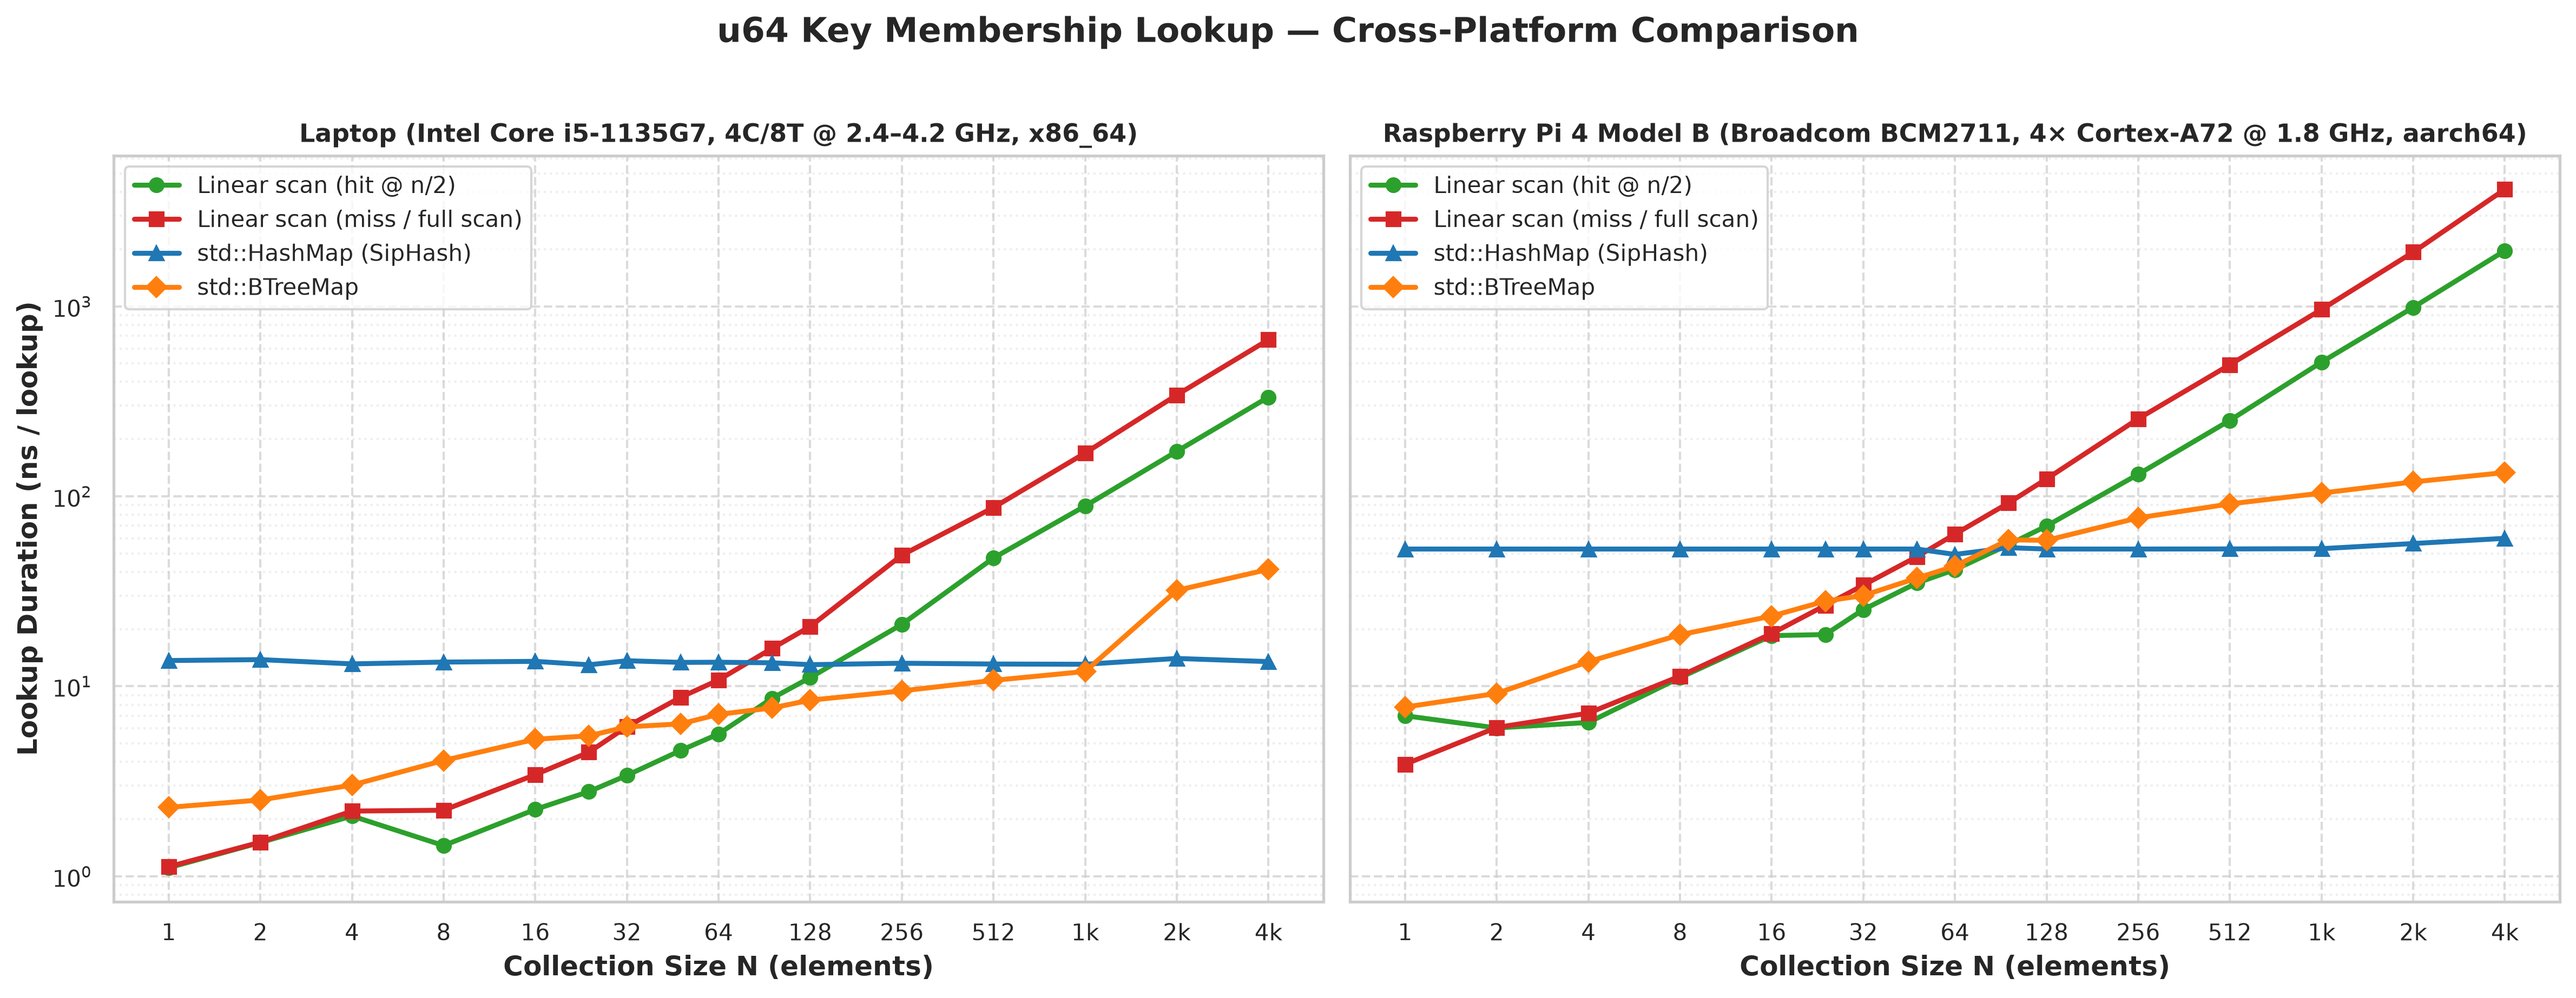
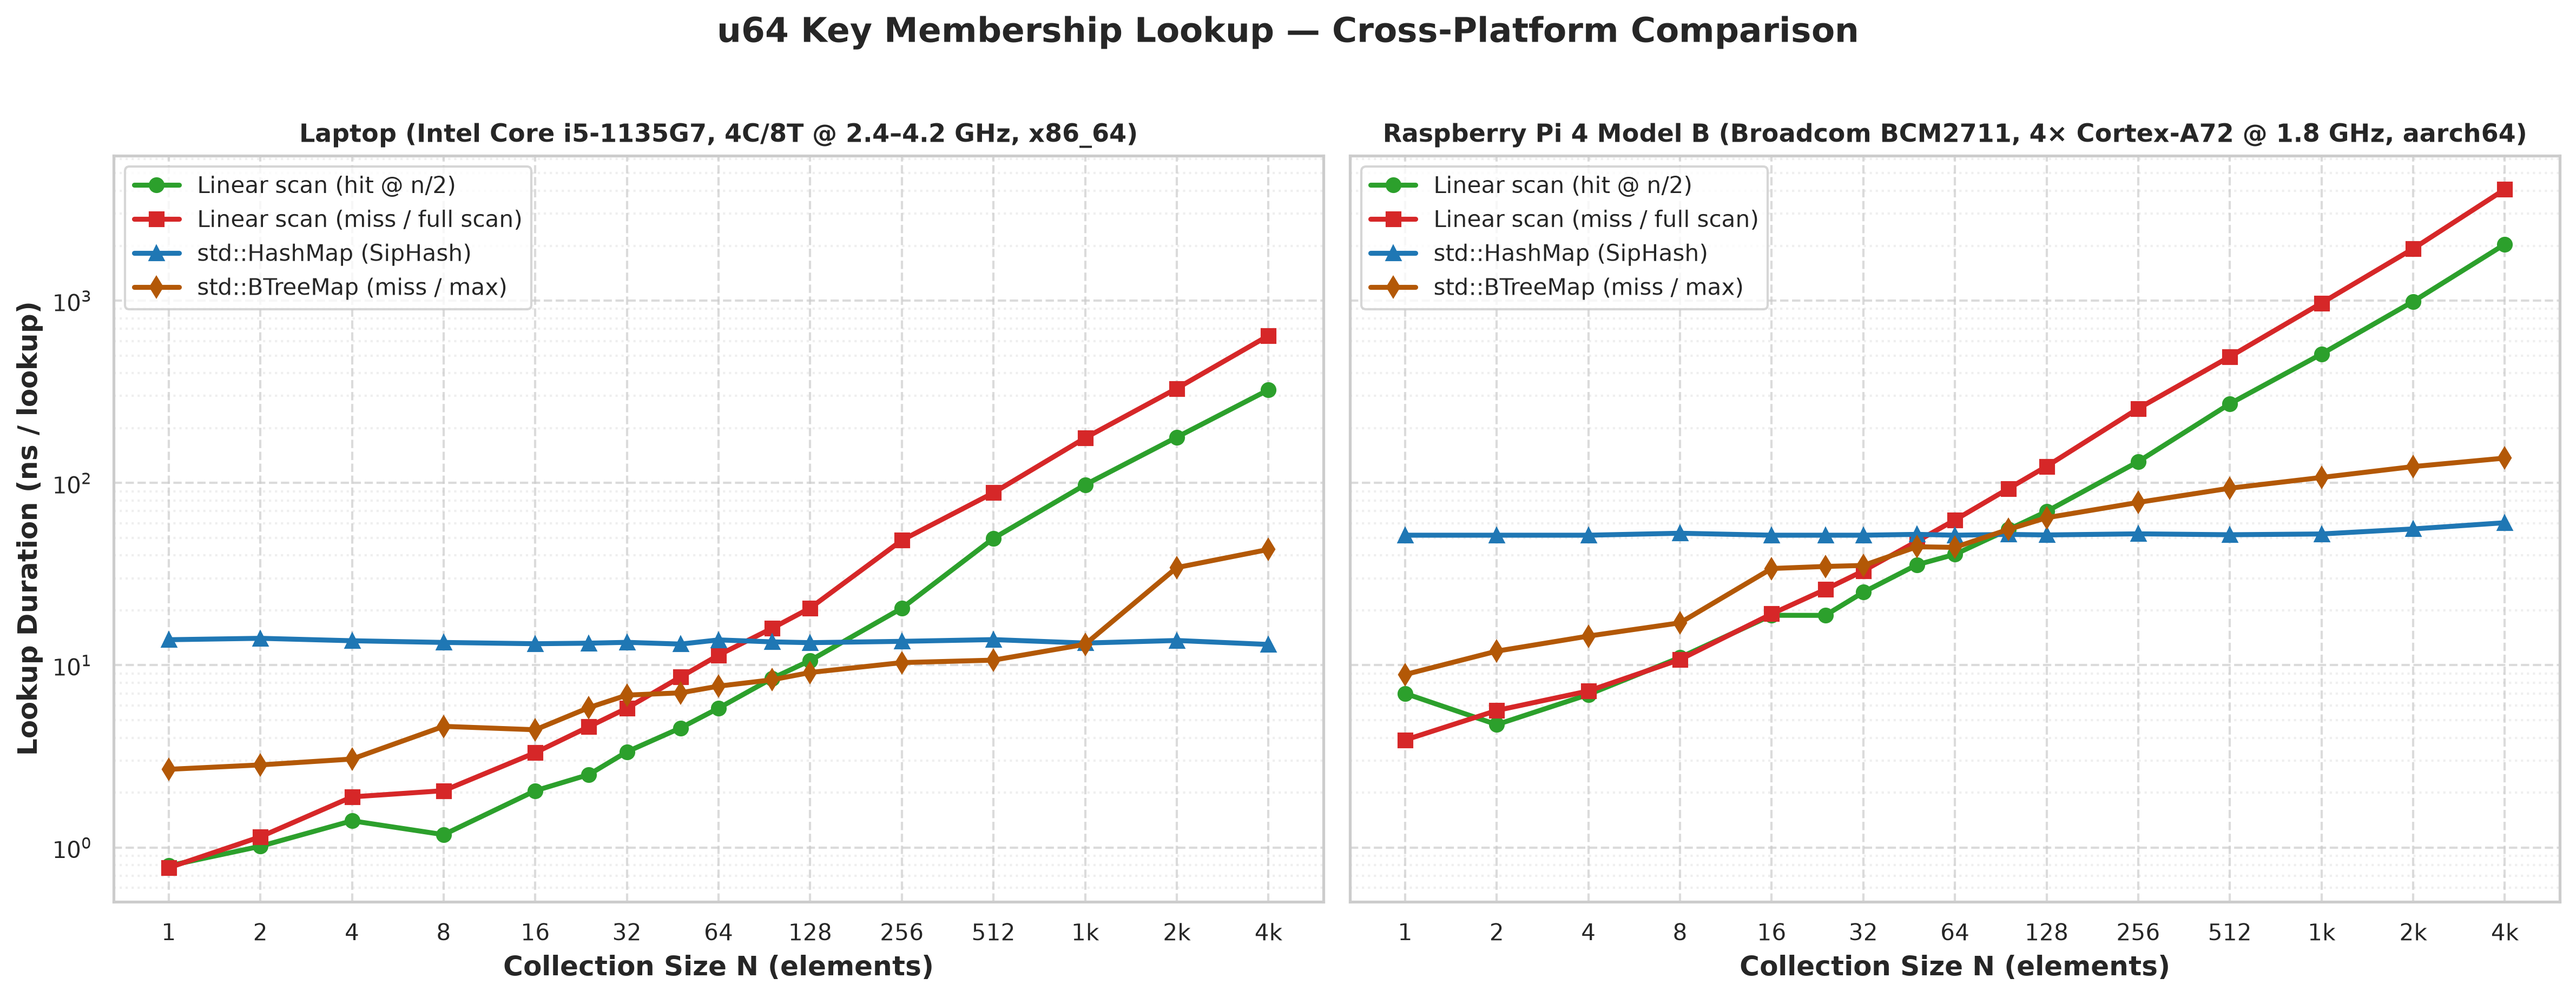
btree benchmark: measure max time for BTree

diff --git a/src/plot.rs b/src/plot.rs
@@ -26,7 +26,7 @@ Construction is not timed. HashMap uses std SipHash.
   linear_mid   Vec scan, hit at index n/2          (~n/2 compares)
   linear_max   Vec scan, key absent                (full scan)
   hashmap      HashMap, rotating present key       (~O(1))
-  btree        BTreeMap, rotating present key      (~O(log n))
+  btree_max    BTreeMap, rotating absent key       (~O(log n), miss)
 
 log–log: X = N, Y = ns/lookup. Linear climbs; HashMap is the flat line.",
         &series,
@@ -46,7 +46,7 @@ Construction is not timed. HashMap uses std SipHash. Trie is qp-trie.
   linear_mid   Vec scan, hit at index n/2
   linear_max   Vec scan, key absent
   hashmap      HashMap, rotating present key
-  btree        BTreeMap, rotating present key
+  btree_max    BTreeMap, rotating absent key       (miss)
   trie         qp-trie, rotating present key
 
 log–log: X = N, Y = ns/lookup.",
@@ -216,7 +216,7 @@ fn measure_int_series() -> Vec<Series> {
     let mut linear_mid = Vec::with_capacity(SIZES.len());
     let mut linear_max = Vec::with_capacity(SIZES.len());
     let mut hashmap = Vec::with_capacity(SIZES.len());
-    let mut btree = Vec::with_capacity(SIZES.len());
+    let mut btree_max = Vec::with_capacity(SIZES.len());
 
     for &n in SIZES {
         let data = IntData::generate(n);
@@ -225,6 +225,7 @@ fn measure_int_series() -> Vec<Series> {
         let mid = data.mid_key();
         let missing = data.missing;
         let keys = data.keys;
+        let missing_keys = data.missing_keys;
 
         linear_mid.push(measure_ns(|| {
             black_box_contains(linear_contains_u64(&keys, black_box(mid)));
@@ -240,9 +241,10 @@ fn measure_int_series() -> Vec<Series> {
             black_box_contains(map.contains_key(&black_box(k)));
         }));
 
+
         let mut i = 0usize;
-        btree.push(measure_ns(|| {
-            let k = keys[i % keys.len()];
+        btree_max.push(measure_ns(|| {
+            let k = missing_keys[i % missing_keys.len()];
             i = i.wrapping_add(1);
             black_box_contains(tree.contains_key(&black_box(k)));
         }));
@@ -253,7 +255,7 @@ fn measure_int_series() -> Vec<Series> {
         series("linear_mid", [44, 160, 44], linear_mid),
         series("linear_max", [214, 39, 40], linear_max),
         series("hashmap", [31, 119, 180], hashmap),
-        series("btree", [255, 127, 14], btree),
+        series("btree_max", [179, 88, 6], btree_max),
     ]
 }
 
@@ -261,7 +263,7 @@ fn measure_string_series() -> Vec<Series> {
     let mut linear_mid = Vec::with_capacity(SIZES.len());
     let mut linear_max = Vec::with_capacity(SIZES.len());
     let mut hashmap = Vec::with_capacity(SIZES.len());
-    let mut btree = Vec::with_capacity(SIZES.len());
+    let mut btree_max = Vec::with_capacity(SIZES.len());
     let mut trie = Vec::with_capacity(SIZES.len());
 
     for &n in SIZES {
@@ -272,6 +274,7 @@ fn measure_string_series() -> Vec<Series> {
         let mid = data.mid_key().to_owned();
         let missing = data.missing.clone();
         let keys = data.keys;
+        let missing_keys = data.missing_keys;
 
         linear_mid.push(measure_ns(|| {
             black_box_contains(linear_contains_str(&keys, black_box(mid.as_str())));
@@ -287,9 +290,10 @@ fn measure_string_series() -> Vec<Series> {
             black_box_contains(map.contains_key(black_box(k)));
         }));
 
+
         let mut i = 0usize;
-        btree.push(measure_ns(|| {
-            let k = keys[i % keys.len()].as_str();
+        btree_max.push(measure_ns(|| {
+            let k = missing_keys[i % missing_keys.len()].as_str();
             i = i.wrapping_add(1);
             black_box_contains(tree.contains_key(black_box(k)));
         }));
@@ -306,7 +310,7 @@ fn measure_string_series() -> Vec<Series> {
         series("linear_mid", [44, 160, 44], linear_mid),
         series("linear_max", [214, 39, 40], linear_max),
         series("hashmap", [31, 119, 180], hashmap),
-        series("btree", [255, 127, 14], btree),
+        series("btree_max", [179, 88, 6], btree_max),
         series("trie", [148, 103, 189], trie),
     ]
 }

diff --git a/src/data.rs b/src/data.rs
@@ -19,24 +19,34 @@ pub const MISSING_STRING: &str = "________________";
 pub struct IntData {
     pub keys: Vec<u64>,
     pub missing: u64,
+    pub missing_keys: Vec<u64>,
 }
 
 pub struct StringData {
     pub keys: Vec<String>,
     pub missing: String,
+    pub missing_keys: Vec<String>,
 }
 
 impl IntData {
     pub fn generate(n: usize) -> Self {
         let mut rng = StdRng::seed_from_u64(SEED ^ n as u64);
-        let mut set = HashSet::with_capacity(n + 1);
-        while set.len() < n + 1 {
+        let count = (n * 2).max(2);
+        let mut set = HashSet::with_capacity(count);
+        while set.len() < count {
             set.insert(rng.random::<u64>());
         }
-        let mut keys: Vec<u64> = set.into_iter().collect();
-        let missing = keys.pop().expect("reserved one extra key as the miss");
+        let all: Vec<u64> = set.into_iter().collect();
+        let (keys_slice, missing_slice) = all.split_at(n);
+        let keys = keys_slice.to_vec();
+        let missing_keys = missing_slice.to_vec();
+        let missing = missing_keys[0];
         debug_assert_eq!(keys.len(), n);
-        Self { keys, missing }
+        Self {
+            keys,
+            missing,
+            missing_keys,
+        }
     }
 
     pub fn mid_key(&self) -> u64 {
@@ -51,9 +61,23 @@ impl StringData {
         while set.len() < n {
             set.insert(random_string(&mut rng, STRING_LEN));
         }
+        let keys: Vec<String> = set.into_iter().collect();
+
+        let count = n.max(1);
+        let mut missing_set = HashSet::with_capacity(count);
+        let keys_set: HashSet<&str> = keys.iter().map(|s| s.as_str()).collect();
+        while missing_set.len() < count {
+            let s = random_string(&mut rng, STRING_LEN);
+            if !keys_set.contains(s.as_str()) {
+                missing_set.insert(s);
+            }
+        }
+        let missing_keys: Vec<String> = missing_set.into_iter().collect();
+
         Self {
-            keys: set.into_iter().collect(),
+            keys,
             missing: MISSING_STRING.to_owned(),
+            missing_keys,
         }
     }
 
@@ -123,6 +147,12 @@ mod tests {
         assert!(!linear_contains_u64(&data.keys, data.missing));
         assert!(!map.contains_key(&data.missing));
         assert!(!tree.contains_key(&data.missing));
+        assert_eq!(data.missing_keys.len(), 128);
+        for k in &data.missing_keys {
+            assert!(!linear_contains_u64(&data.keys, *k));
+            assert!(!map.contains_key(k));
+            assert!(!tree.contains_key(k));
+        }
     }
 
     #[test]
@@ -143,6 +173,13 @@ mod tests {
         assert!(!tree.contains_key(&data.missing));
         assert!(!trie.contains_key_str(&data.missing));
         assert_eq!(data.missing.len(), STRING_LEN);
+        assert_eq!(data.missing_keys.len(), 64);
+        for k in &data.missing_keys {
+            assert!(!linear_contains_str(&data.keys, k));
+            assert!(!map.contains_key(k));
+            assert!(!tree.contains_key(k));
+            assert!(!trie.contains_key_str(k));
+        }
     }
 
     #[test]

diff --git a/scripts/plot_results.py b/scripts/plot_results.py
@@ -37,6 +37,7 @@ COLOR_MAP = {
     "linear_max": "#d62728",   # Red
     "hashmap": "#1f77b4",      # Blue
     "btree": "#ff7f0e",        # Orange
+    "btree_max": "#b35806",    # Dark Amber / Rust
     "trie": "#9467bd",         # Purple
 }
 
@@ -45,6 +46,7 @@ LABEL_MAP = {
     "linear_max": "Linear scan (miss / full scan)",
     "hashmap": "std::HashMap (SipHash)",
     "btree": "std::BTreeMap",
+    "btree_max": "std::BTreeMap (miss / max)",
     "trie": "qp-trie",
 }
 
@@ -53,6 +55,7 @@ MARKER_MAP = {
     "linear_max": "s",
     "hashmap": "^",
     "btree": "D",
+    "btree_max": "d",
     "trie": "v",
 }
 
@@ -75,7 +78,7 @@ def plot_single_bench(csv_path: Path, output_png: Path, title: str, subtitle: st
     
     fig, ax = plt.subplots(figsize=(10, 6))
 
-    columns = [col for col in df.columns if col != "N"]
+    columns = [col for col in df.columns if col not in ("N", "btree_mid")]
     
     for col in columns:
         color = COLOR_MAP.get(col, "#333333")
@@ -129,7 +132,7 @@ def plot_comparison(
     
     fig, (ax1, ax2) = plt.subplots(1, 2, figsize=(16, 6), sharey=True)
     
-    columns = [col for col in df_laptop.columns if col != "N"]
+    columns = [col for col in df_laptop.columns if col not in ("N", "btree_mid")]
     ticks = [1, 2, 4, 8, 16, 32, 64, 128, 256, 512, 1024, 2048, 4096]
     
     # Laptop plot
@@ -158,20 +161,20 @@ def plot_comparison(
     ax1.legend(frameon=True, loc="upper left")
 
     # RPi plot
-    for col in columns:
-        if col in df_rpi.columns:
-            color = COLOR_MAP.get(col, "#333333")
-            label = LABEL_MAP.get(col, col)
-            marker = MARKER_MAP.get(col, "o")
-            ax2.plot(
-                df_rpi["N"],
-                df_rpi[col],
-                label=label,
-                color=color,
-                marker=marker,
-                markersize=6,
-                linewidth=2.2,
-            )
+    rpi_columns = [col for col in df_rpi.columns if col not in ("N", "btree_mid")]
+    for col in rpi_columns:
+        color = COLOR_MAP.get(col, "#333333")
+        label = LABEL_MAP.get(col, col)
+        marker = MARKER_MAP.get(col, "o")
+        ax2.plot(
+            df_rpi["N"],
+            df_rpi[col],
+            label=label,
+            color=color,
+            marker=marker,
+            markersize=6,
+            linewidth=2.2,
+        )
     ax2.set_xscale("log", base=2)
     ax2.set_yscale("log")
     ax2.set_xticks(ticks)

diff --git a/README.md b/README.md
@@ -35,7 +35,7 @@ This crate measures that crossover across different CPU architectures:
 
 | Target Platform | Linear Scan Hit (`linear_mid`) Beats HashMap Up To | Linear Scan Miss (`linear_max`) Beats HashMap Up To |
 |---|---|---|
-| **Laptop (Intel i5-1135G7)** | **N = 96** | **N = 48** |
+| **Laptop (Intel i5-1135G7)** | **N = 128** | **N = 64** |
 | **Raspberry Pi 4 Model B (Cortex-A72)** | **N = 64** | **N = 48** |
 
 ---
@@ -48,7 +48,7 @@ This crate measures that crossover across different CPU architectures:
 
 | Target Platform | Linear Scan (`linear_mid`) Fastest Up To | `qp-trie` Fastest In Range | `std::HashMap` Dominates At |
 |---|---|---|---|
-| **Laptop (Intel i5-1135G7)** | **N = 8** | **N = 16 .. 32** | **N ≥ 48** |
+| **Laptop (Intel i5-1135G7)** | **N = 8** | **N = 16 .. 96** | **N ≥ 128** |
 | **Raspberry Pi 4 Model B (Cortex-A72)** | **N = 8** | **N = 16 .. 48** | **N ≥ 64** |
 
 ---
@@ -115,7 +115,7 @@ the number.
 | `linear_mid` | `Vec` | key sitting at index `n/2` (typical hit) |
 | `linear_max` | `Vec` | a key that is **not** there (full scan) |
 | `hashmap` | `std::HashMap` | a present key, rotating so one hot key cannot win on prediction |
-| `btree` | `std::BTreeMap` | same as hashmap |
+| `btree_max` | `std::BTreeMap` | rotating absent key (full depth / miss) |
 | `trie` | `qp-trie` | strings only |
 
 `HashMap` uses the default hasher (SipHash). A faster hasher would move its
@@ -127,6 +127,7 @@ plot — finding an arbitrary key in a heap is *O(n)* with worse locality than
 
 - **X** is N (log scale). **Y** is nanoseconds per lookup (log scale).
 - The linear series climb with *O(n)*; HashMap stays roughly flat (*O(1)*).
+- Trees climb with *O(log n)*, with `btree_max` (worst-case / absent key full depth search).
 - Where they cross, the map starts to pay for itself.
 - `linear_max` crosses first (a miss already scanned the whole array).
 - `linear_mid` crosses later (a hit only walks half the array on average).
